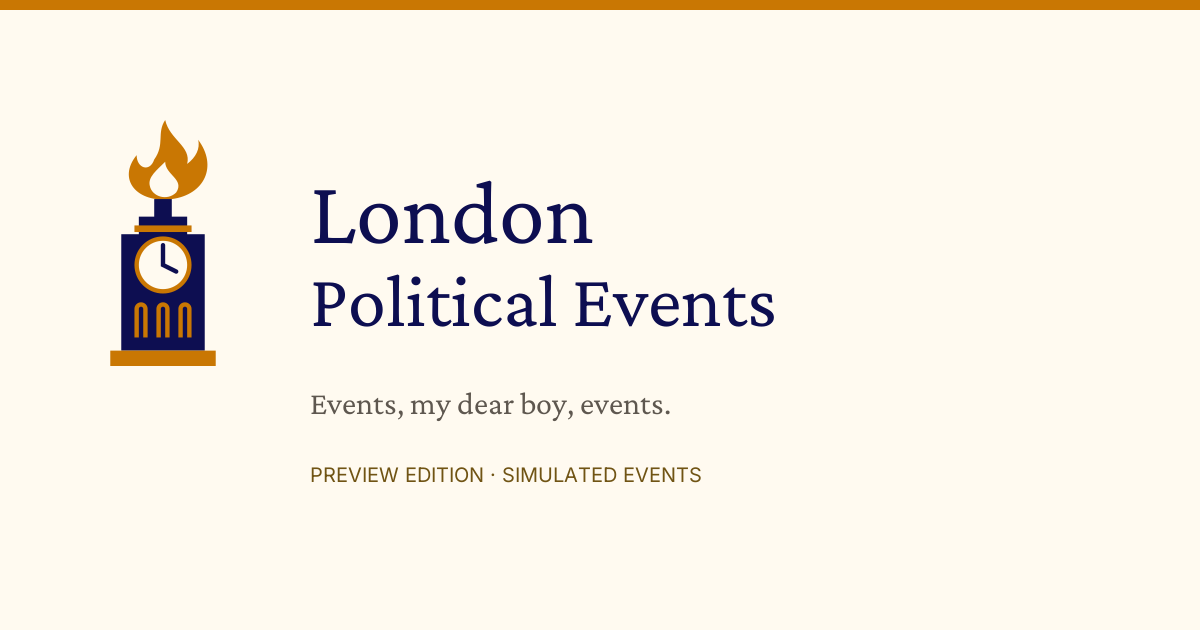
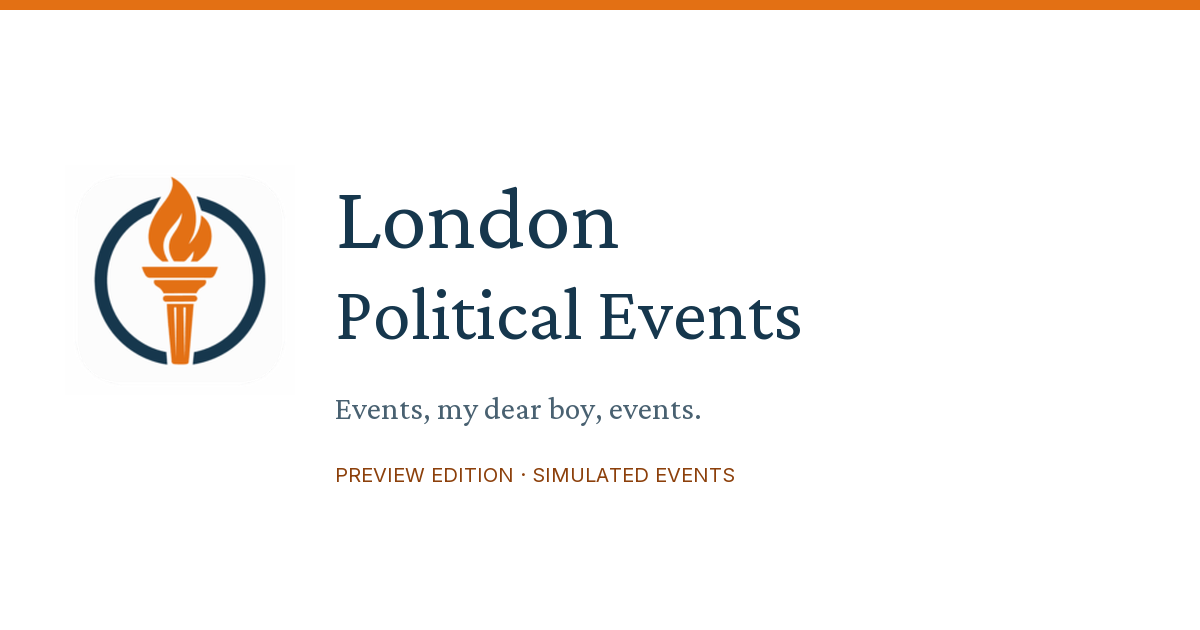
Apply Fighting for a Free Future branding

diff --git a/index.html b/index.html
@@ -4,7 +4,7 @@
   <meta charset="UTF-8" />
   <meta name="viewport" content="width=device-width, initial-scale=1, viewport-fit=cover" />
   <meta name="description" content="Explore a preview of London politics and ideas events with simulated listings, search, filters, and a calendar." />
-  <meta name="theme-color" content="#0D0E51" />
+  <meta name="theme-color" content="#16374D" />
   <meta name="mobile-web-app-capable" content="yes" />
   <meta name="apple-mobile-web-app-capable" content="yes" />
   <meta name="apple-mobile-web-app-status-bar-style" content="black" />
@@ -12,27 +12,27 @@
   <title>London Political Events</title>
   <link rel="canonical" href="https://sfox2006.github.io/London-Political-Events/" />
   <link rel="manifest" href="manifest.webmanifest" />
-  <link rel="icon" href="assets/favicon.ico" sizes="any" />
-  <link rel="icon" href="assets/favicon-32.png" type="image/png" sizes="32x32" />
-  <link rel="icon" href="assets/icon.svg" type="image/svg+xml" />
-  <link rel="apple-touch-icon" href="assets/apple-touch-icon.png" sizes="180x180" />
+  <link rel="icon" href="assets/favicon.ico?v=9" sizes="any" />
+  <link rel="icon" href="assets/favicon-32.png?v=9" type="image/png" sizes="32x32" />
+  <link rel="icon" href="assets/icon.svg?v=9" type="image/svg+xml" />
+  <link rel="apple-touch-icon" href="assets/apple-touch-icon.png?v=9" sizes="180x180" />
   <meta property="og:type" content="website" />
   <meta property="og:site_name" content="London Political Events" />
   <meta property="og:title" content="London Political Events" />
   <meta property="og:description" content="Explore a preview of London politics and ideas events with simulated listings, search, filters, and a calendar." />
   <meta property="og:url" content="https://sfox2006.github.io/London-Political-Events/" />
-  <meta property="og:image" content="https://sfox2006.github.io/London-Political-Events/assets/og-image.png" />
+  <meta property="og:image" content="https://sfox2006.github.io/London-Political-Events/assets/og-image.png?v=9" />
   <meta property="og:image:width" content="1200" />
   <meta property="og:image:height" content="630" />
   <meta property="og:image:alt" content="London Political Events" />
   <meta name="twitter:card" content="summary_large_image" />
   <meta name="twitter:title" content="London Political Events" />
   <meta name="twitter:description" content="Explore a preview of London politics and ideas events with simulated listings, search, filters, and a calendar." />
-  <meta name="twitter:image" content="https://sfox2006.github.io/London-Political-Events/assets/og-image.png" />
+  <meta name="twitter:image" content="https://sfox2006.github.io/London-Political-Events/assets/og-image.png?v=9" />
   <link rel="preconnect" href="https://fonts.googleapis.com" />
   <link rel="preconnect" href="https://fonts.gstatic.com" crossorigin />
   <link rel="stylesheet" href="https://fonts.googleapis.com/css2?family=Material+Symbols+Sharp:opsz,wght,FILL,GRAD@20..48,400..600,0..1,0" />
-  <link rel="stylesheet" href="styles.css?v=8" />
+  <link rel="stylesheet" href="styles.css?v=9" />
 </head>
 <body>
   <a class="skip-link" href="#main">Skip to events</a>
@@ -42,7 +42,7 @@
     <h1 class="brand-title">
       <button type="button" class="brand-home" id="brand-home">
         <span class="eyebrow">London, UK</span>
-        <span class="london-lockup"><img src="assets/mark.svg" width="40" height="56" alt="" /><span>London Political Events</span></span>
+        <span class="london-lockup"><img src="assets/fff-torch.png?v=9" width="44" height="44" alt="" /><span>London Political Events</span></span>
         <span class="brand-sub">Events, my dear boy, events</span>
       </button>
     </h1>
@@ -158,7 +158,7 @@
         <div class="ideo-list" id="ideo-list" role="group" aria-labelledby="ideo-label">
           <label class="ideo-row">
             <input type="checkbox" value="libertarian" />
-            <span class="ideo-swatch" style="background:#C97703"></span>
+            <span class="ideo-swatch" style="background:#E37014"></span>
             <span class="ideo-name">Libertarian</span>
             <span class="ideo-count" data-count-for="libertarian">0</span>
           </label>
@@ -176,7 +176,7 @@
           </label>
           <label class="ideo-row">
             <input type="checkbox" value="foreign_policy" />
-            <span class="ideo-swatch" style="background:#0D0E51"></span>
+            <span class="ideo-swatch" style="background:#16374D"></span>
             <span class="ideo-name">Foreign policy</span>
             <span class="ideo-count" data-count-for="foreign_policy">0</span>
           </label>
@@ -366,6 +366,7 @@
   </div>
 
   <footer class="site-footer">
+    <a class="brand-credit" href="https://www.fightingforafreefuture.com/" target="_blank" rel="noopener noreferrer"><img src="assets/fff-logo.png?v=9" width="160" height="160" alt="Fighting for a Free Future" loading="lazy" /></a>
     <div class="footer-suggestion">
       <h2>Suggest a listing or help verify an organisation</h2>
       <p>Know an event or organisation that should be listed but is missing? Have current evidence for an organisation that needs verification? Please fill out our Google Form to suggest a listing or help verify an existing organisation. For verification, include a recent official event page or other current evidence, its date, and any corrections.</p>
@@ -422,7 +423,7 @@
     <p class="about-note">An independent calendar. Sample events are fictional; the calendar is not an official listing.</p>
   </dialog>
 
-  <script src="event-data.js?v=8"></script>
-  <script src="app.js?v=8"></script>
+  <script src="event-data.js?v=9"></script>
+  <script src="app.js?v=9"></script>
 </body>
 </html>

diff --git a/styles.css b/styles.css
@@ -23,23 +23,23 @@
 }
 
 :root {
-  --ink: #1a1714;
-  --secondary: #5e574f;
-  --tertiary: #5c564f;
-  --muted: #645e57;
-  --hairline: #e8ded3;
-  --control: #cabeb1;
+  --ink: #16374d;
+  --secondary: #496171;
+  --tertiary: #496171;
+  --muted: #536875;
+  --hairline: #dce5ea;
+  --control: #afc0ca;
   --page: #ffffff;
-  --sand: #f9f7f4;
-  --tag: #f2f3f6;
-  --blue: #3043b4;
-  --blue-hover: #465de4;
-  --range: #bfc7f8;
-  --highlight: #eff1fd;
-  --navy: #0d0e51;
-  --gold: #c97703;
-  --gold-light: #ffc97e;
-  --venue: #433e38;
+  --sand: #f5f8fa;
+  --tag: #edf3f6;
+  --blue: #16374d;
+  --blue-hover: #244e66;
+  --range: #dbe8ef;
+  --highlight: #fff1e5;
+  --navy: #16374d;
+  --gold: #e37014;
+  --gold-light: #ffb978;
+  --venue: #496171;
   --ease: cubic-bezier(0.4, 0, 0.2, 1);
   color-scheme: light;
 }
@@ -144,7 +144,7 @@ a:hover {
   font-size: 10px;
   letter-spacing: 0.09em;
   text-transform: uppercase;
-  color: #5a4a1a;
+  color: var(--navy);
   line-height: 1;
 }
 
@@ -645,7 +645,7 @@ body.is-calendar .sidebar {
 .chip[aria-pressed="true"] {
   border-color: var(--blue);
   background: var(--highlight);
-  color: #2c3b95;
+  color: #16374d;
 }
 
 .filter-footer {
@@ -2071,7 +2071,7 @@ body.filters-open {
     font-weight: 700;
     letter-spacing: 0.04em;
     text-transform: uppercase;
-    color: #5a4a1a;
+    color: #8c400b;
   }
 
   .phone-num {
@@ -2496,17 +2496,24 @@ body.filters-open {
 
 /* London identity and sample-data states. */
 .london-lockup { display:flex; align-items:center; gap:10px; font-family:"Crimson Pro",Georgia,serif; font-size:32px; font-weight:600; line-height:1; color:var(--navy); }
-.london-lockup img { flex:none; }
+.london-lockup img { flex:none; width:44px; height:44px; object-fit:contain; }
 .newsletter-pending { display:flex; flex-direction:column; gap:2px; padding:8px 14px; background:var(--sand); font-size:12px; font-weight:500; color:var(--navy); }
 .newsletter-pending span { color:var(--muted); font-size:10px; font-weight:400; }
-.demo-notice { border-top:2px solid var(--gold); background:#fffaf0; color:var(--navy); }
+.demo-notice { border-top:2px solid var(--gold); background:#fff6ee; color:var(--navy); }
 .demo-notice h2 { color:var(--navy); }
 .demo-notice p { color:var(--secondary); }
-.demo-notice .newsletter-kicker { color:#705414; }
+.demo-notice .newsletter-kicker { color:#8c400b; }
 .demo-notice[hidden] { display:none; }
-.demo-stamp,.sample-badge { display:inline-block; border:1px solid #e6ce9a; padding:3px 7px; color:#705414; background:#fffaf0; font-family:Inter,system-ui,sans-serif; font-size:10px; font-weight:500; line-height:1.2; letter-spacing:.04em; text-transform:uppercase; }
+.demo-stamp,.sample-badge { display:inline-block; border:1px solid #f0c6a5; padding:3px 7px; color:#8c400b; background:#fff6ee; font-family:Inter,system-ui,sans-serif; font-size:10px; font-weight:500; line-height:1.2; letter-spacing:.04em; text-transform:uppercase; }
 .demo-stamp { white-space:nowrap; font-size:11px; padding:8px 10px; }
-.sample-detail { color:#705414; padding:10px 12px; border-left:2px solid var(--gold); background:#fffaf0; font-size:13px; }
+.sample-detail { color:#8c400b; padding:10px 12px; border-left:2px solid var(--gold); background:#fff6ee; font-size:13px; }
 @media(max-width:900px) { .london-lockup { font-size:28px; } }
-@media(max-width:700px) { .london-lockup { font-size:24px; gap:7px; } .london-lockup img { width:26px; height:36px; } .demo-notice { align-items:flex-start; gap:12px; } .demo-stamp { font-size:9px; padding:5px 7px; } .newsletter-pending { padding:8px; } }
+@media(max-width:700px) { .london-lockup { font-size:24px; gap:7px; } .london-lockup img { width:30px; height:30px; } .demo-notice { align-items:flex-start; gap:12px; } .demo-stamp { font-size:9px; padding:5px 7px; } .newsletter-pending { padding:8px; } }
 @media(max-width:380px) { .london-lockup { font-size:21px; } }
+
+/* Fighting for a Free Future brand accents. */
+.newsletter { border-top:3px solid var(--gold); }
+.btn-email { border-bottom:3px solid var(--gold); }
+.newsletter-cta { border-bottom:3px solid var(--gold); }
+.brand-credit { display:block; width:160px; margin:0 0 24px; }
+.brand-credit img { display:block; width:100%; height:auto; }

diff --git a/organisations.html b/organisations.html
@@ -4,19 +4,19 @@
   <meta charset="UTF-8" />
   <meta name="viewport" content="width=device-width, initial-scale=1, viewport-fit=cover" />
   <meta name="description" content="Browse the organisations and event sources for London Political Events. Suggest missing listings or submit current evidence to help verify an organisation." />
-  <meta name="theme-color" content="#0D0E51" />
+  <meta name="theme-color" content="#16374D" />
   <title>Organisations | London Political Events</title>
   <link rel="canonical" href="https://sfox2006.github.io/London-Political-Events/organisations.html" />
-  <link rel="icon" href="assets/icon.svg" type="image/svg+xml" />
-  <link rel="apple-touch-icon" href="assets/apple-touch-icon.png" />
-  <link rel="stylesheet" href="styles.css?v=8" />
+  <link rel="icon" href="assets/icon.svg?v=9" type="image/svg+xml" />
+  <link rel="apple-touch-icon" href="assets/apple-touch-icon.png?v=9" />
+  <link rel="stylesheet" href="styles.css?v=9" />
 </head>
 <body class="directory-page">
   <a class="skip-link" href="#organisations">Skip to organisations</a>
   <header class="topbar directory-topbar">
     <a class="brand-home" href="./" aria-label="London Political Events home">
       <span class="eyebrow">London, UK</span>
-      <span class="london-lockup"><img src="assets/mark.svg" width="40" height="56" alt="" /><span>London Political Events</span></span>
+      <span class="london-lockup"><img src="assets/fff-torch.png?v=9" width="44" height="44" alt="" /><span>London Political Events</span></span>
       <span class="brand-sub">Events, my dear boy, events</span>
     </a>
     <nav class="directory-nav" aria-label="Main navigation"><a href="./">Events</a><a href="organisations.html" aria-current="page">Organisations</a><a href="https://docs.google.com/forms/d/e/1FAIpQLSejuH1vnLTDNu3QnVgmQhCxsP7wgsy8Ub2RRqu-tZeuxtR-5Q/viewform" target="_blank" rel="noopener noreferrer">Weekly email</a></nav>
@@ -5284,10 +5284,11 @@
     </section>
   </main>
   <footer class="site-footer">
+    <a class="brand-credit" href="https://www.fightingforafreefuture.com/" target="_blank" rel="noopener noreferrer"><img src="assets/fff-logo.png?v=9" width="160" height="160" alt="Fighting for a Free Future" loading="lazy" /></a>
     <div class="footer-suggestion"><h2>Suggest a listing or help verify an organisation</h2><p>Know an event or organisation that should be listed but is missing? Have current evidence for an organisation that needs verification? Please fill out our Google Form to suggest a listing or help verify an existing organisation. For verification, include a recent official event page or other current evidence, its date, and any corrections.</p><a class="suggestion-button" href="https://docs.google.com/forms/d/e/1FAIpQLSe1uBIE4N7uRyIjUiO0GKFosXRj0UXuvFmdOlR7yx5oebiSGw/viewform" target="_blank" rel="noopener noreferrer">Suggest a listing or submit verification <span aria-hidden="true">↗</span></a></div>
     <div class="footer-suggestion"><h2>Get the weekly email</h2><p>A free Sunday roundup of London politics and ideas events.</p><a class="suggestion-button" href="https://docs.google.com/forms/d/e/1FAIpQLSejuH1vnLTDNu3QnVgmQhCxsP7wgsy8Ub2RRqu-tZeuxtR-5Q/viewform" target="_blank" rel="noopener noreferrer">Sign up for the London weekly email <span aria-hidden="true">↗</span></a></div>
     <p>An independent calendar of London politics and ideas events. <a href="./">Back to events</a>. The calendar currently contains simulated events only.</p>
   </footer>
-  <script src="organisations.js?v=8" defer></script>
+  <script src="organisations.js?v=9" defer></script>
 </body>
 </html>

diff --git a/app.js b/app.js
@@ -11,10 +11,10 @@
   const MONTHS_TITLE = ["Jan", "Feb", "Mar", "Apr", "May", "June", "July", "Aug", "Sept", "Oct", "Nov", "Dec"];
   const MONTHS_SMALL = ["Jan.", "Feb.", "Mar.", "Apr.", "May", "June", "July", "Aug.", "Sept.", "Oct.", "Nov.", "Dec."];
   const IDEOLOGIES = [
-    { id: "libertarian", label: "Libertarian", color: "#C97703", text: "#5a4a1a" },
+    { id: "libertarian", label: "Libertarian", color: "#E37014", text: "#8c400b" },
     { id: "conservative", label: "Conservative", color: "#C64D2D" },
     { id: "progressive", label: "Progressive", color: "#4002B3" },
-    { id: "foreign_policy", label: "Foreign policy", color: "#0D0E51" },
+    { id: "foreign_policy", label: "Foreign policy", color: "#16374D" },
     { id: "abundance_yimby", label: "Abundance / YIMBY", color: "#006600" },
     { id: "nonpartisan", label: "Nonpartisan", color: "#0F5F6B" },
     { id: "centrist", label: "Centrist", color: "#3043B4" },
@@ -1548,7 +1548,7 @@
     const prep = preparedById.get(event.id);
     const open = state.openEventId === event.id;
     const ideo = prep ? prep.ideo : ideologyView(event);
-    const color = ideo ? ideo.color : "#CABEB1";
+    const color = ideo ? ideo.color : "#AFC0CA";
     const detailsId = domId("card-details", `${event.id}-${ymd ? ymdKey(ymd) : "x"}`);
     const org = prep ? prep.orgLine : orgLine(event);
     const badge = spanBadgeHtml(event, ymd);

diff --git a/sw.js b/sw.js
@@ -1,6 +1,6 @@
 /* London Political Events — shell cache, network-first events.
    Bump SHELL_CACHE when HTML, CSS, JS, fonts, or icons change. */
-const SHELL_CACHE = "london-events-main-v8";
+const SHELL_CACHE = "london-events-main-v9";
 const DATA_CACHE = "london-events-main-data-v1";
 
 const SHELL = [
@@ -16,6 +16,8 @@ const SHELL = [
   "./fonts/CrimsonPro.ttf",
   "./fonts/CrimsonPro-Italic.ttf",
   "./assets/mark.svg",
+  "./assets/fff-torch.png",
+  "./assets/fff-logo.png",
   "./assets/icon.svg",
   "./assets/icon-192.png",
   "./assets/icon-512.png",

diff --git a/README.md b/README.md
@@ -1,6 +1,6 @@
 # London Political Events
 
-A static London edition of [DC Political Events](https://sfox2006.github.io/DC-Political-events/), adapted from upstream commit `e7d50fe`. It retains the DC site's navy and gold identity, local Inter and Crimson Pro fonts, searchable agenda, calendar, mobile filter sheets, sharing, calendar exports, refresh and installable PWA. London's mark combines Big Ben with a gold flame of liberty, alongside GBP sample prices and `Europe/London` throughout.
+A static London edition of [DC Political Events](https://sfox2006.github.io/DC-Political-events/), adapted from upstream commit `e7d50fe`. It uses Fighting for a Free Future's dark blue (`#16374D`) and orange (`#E37014`) palette and original torch artwork, alongside local Inter and Crimson Pro fonts, searchable agenda, calendar, mobile filter sheets, sharing, calendar exports, refresh and an installable PWA. Sample prices use GBP and all times use `Europe/London`.
 
 **This initial edition contains 43 simulated events.** All hosts, titles, speakers, venues, prices and perks are fictional examples. Each row and calendar card is labelled **Simulated**. Sample calendar exports are prefixed `[Simulated]`; no sample event registration is connected. London newsletter signup is open for a roundup of verified events when real listings are available.
 
@@ -77,3 +77,12 @@ In **Settings → Pages**, choose **Deploy from a branch**, then **main**, **/ (
 Publishing is separate from the review branch. The PR does not turn on Pages or merge itself.
 
 When changing HTML, CSS, JS or assets after deployment, bump the shell cache version in `sw.js` and asset query versions in `index.html`. Changes to event JSON do not require a cache bump.
+
+## Brand assets
+
+Branding updated at the owner's request from [Fighting for a Free Future](https://www.fightingforafreefuture.com/). `assets/fff-torch.png` preserves its published 192px site icon; `assets/fff-logo.png` preserves its full logo artwork. App icons export the torch at the required sizes, with padding for maskable icons. No artwork is redrawn. Sources:
+
+- https://www.fightingforafreefuture.com/wp-content/uploads/2025/08/cropped-Favicon-1-scaled-1-192x192.png
+- https://www.fightingforafreefuture.com/wp-content/uploads/2026/09/20260820-Final-FFF-Logo-Visually-Balanced-Centred-scaled.png
+
+Keep both pages, the app icons, social preview and theme colour consistent when updating branding.

diff --git a/AGENTS.md b/AGENTS.md
@@ -17,6 +17,7 @@ This is a self-contained static site, adapted from Sam's DC calendar. Preserve t
 ## UI and assets
 
 - Local fonts, icons, manifest and service worker use relative paths for GitHub Pages.
+- Use the original Fighting for a Free Future torch and logo assets with its dark blue `#16374D` and orange `#E37014` palette. Keep the calendar, organisations page, app icons and social preview consistent. README.md records the artwork sources.
 - All displayed and exported times use `Europe/London`.
 - London newsletter signup uses the London-specific Google Form linked in the header, newsletter card and footer. Keep it separate from the DC signup form and the event/organisation suggestion form. See README.md for the owner editor and response-management link.
 - If changing the app shell after publication, bump the shell cache version and HTML asset query versions together.
